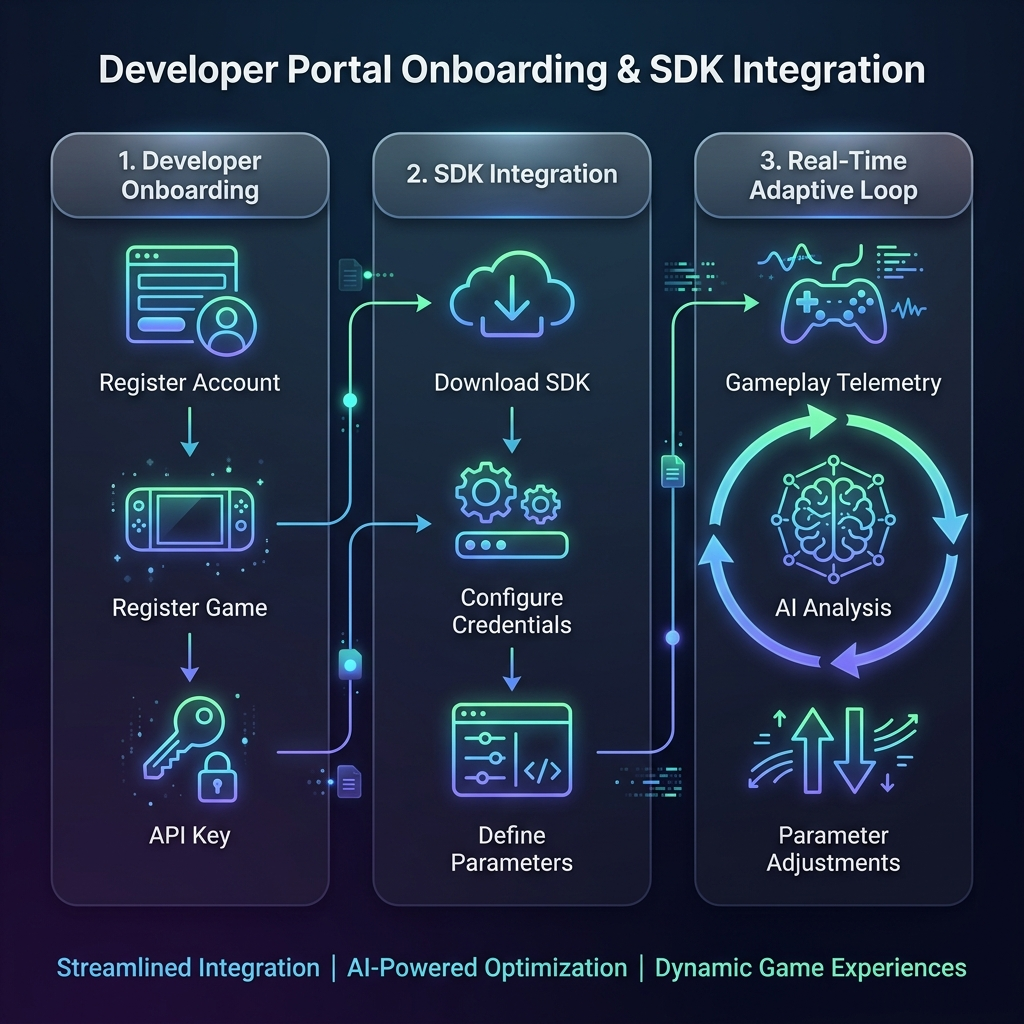
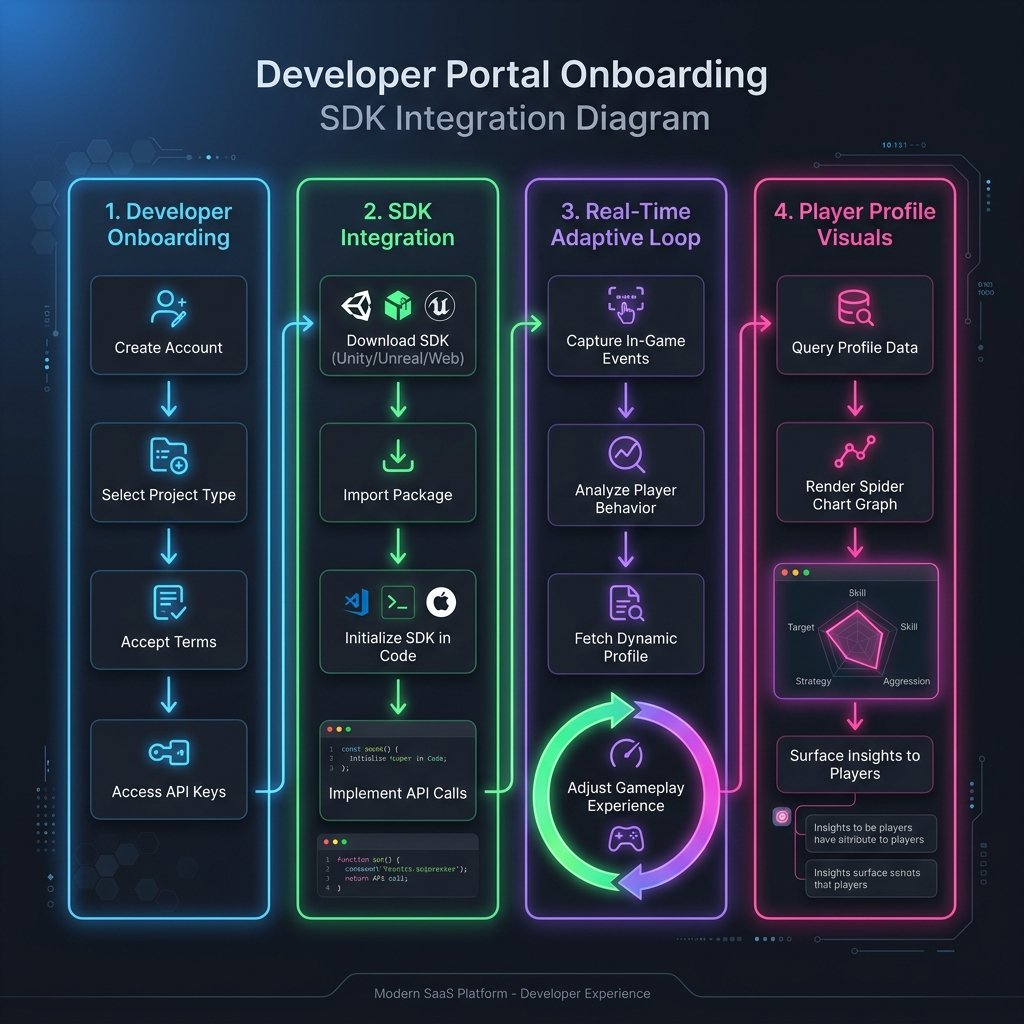
update design and details

diff --git a/onboarding_flow.md b/onboarding_flow.md
@@ -29,3 +29,6 @@ The vector source file has been saved in the repository root at:
 | **3. Live Adjustment Loop** | **A. Active Gameplay** | `SDK Telemetry` | As users play, the SDK automatically initiates sessions and transmits periodic visual screenshot chunks + event data to the API. |
 | | **B. real-time AI Analysis** | `Skillprint AI Engine` | **Developer Value-Add:** Gemini VLM analyzes visual game screens to evaluate cognitive engagement, mood response, and difficulty ratings in real-time, mapping behavior to cognitive profiles. |
 | | **C. Live Parameter Adjustments** | `Dynamic Mechanics` | The game client receives real-time parameter updates (`parameter_updates`) from the API, seamlessly dialing up/down challenge, speed, or help mechanisms. |
+| **4. Player Profile Visuals** | **7. Query Player Profile** | `Profile Client` | Fetch the player's aggregated cognitive profile data (skills, moods, and scores) via the Skillprint Profile API. |
+| | **8. Render Skillprint Graph** | `UI Component` | Bind data to the `SkillprintGraphRenderer` component to display a beautiful radial spider chart of the player's attributes. |
+| | **9. Surface Insights to Users** | `Player Value-Add` | Present cognitive traits directly to players, boosting self-discovery, long-term retention, and game loyalty. |
